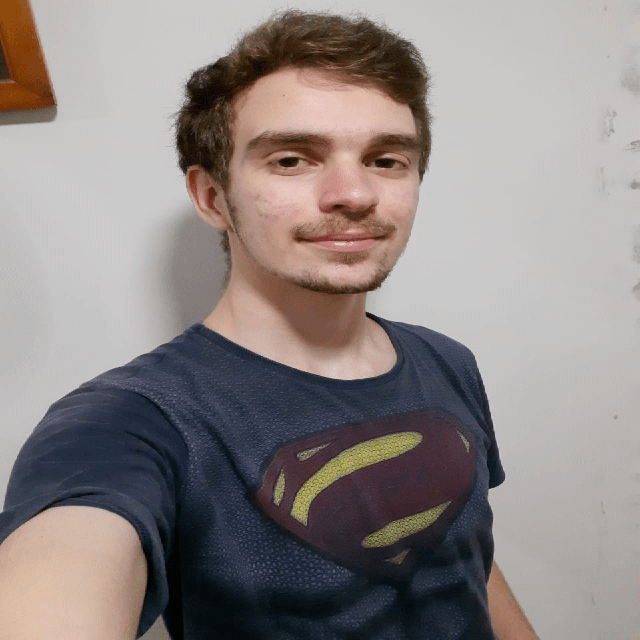
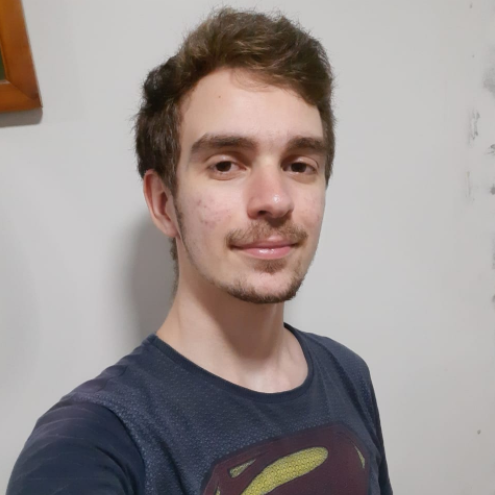
adicionando foto ajustadas

diff --git a/frontend/scripts/administrador/script-adm-principal.js b/frontend/scripts/administrador/script-adm-principal.js
@@ -1,6 +1,10 @@
 // Pegando id do usuário que logou 
 var idUsuario = sessionStorage.getItem("idUsuario");
 
+var img = document.querySelector("#idFotoPerfil");
+img.setAttribute('src', '/frontend/imagens-usuarios/OnlineClass-imagens-000001-01.png');
+img.style.borderRadius = "80%";
+
 //Verifica se o idUsuario é válido 
 if(idUsuario != 0 && idUsuario != null){
     //Busca dos dados do usuário
